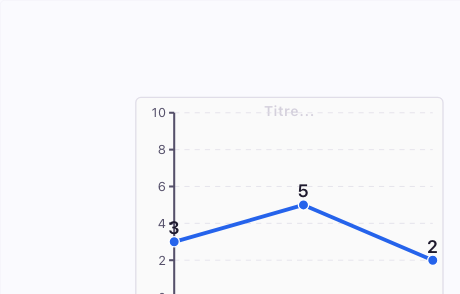
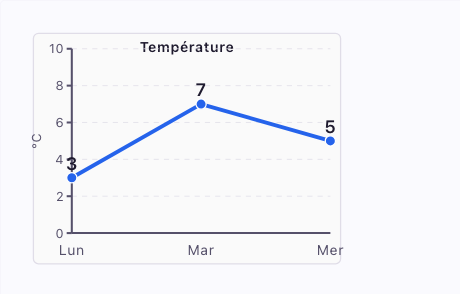
fix: images exemples flèche et diagramme ligne corrigées
- exemple-fleche: boîtes Léo→Mia avec flèche "donne 5" (via fixture)
- exemple-diagramme-ligne: Température Lun/Mar/Mer avec valeurs (via fixture)
- Texte HTML ajusté: description enrichie Calcul colonnes/division, exemples matchent images
- Fixture diagramme ligne simplifiée à 3 points (évite timeout)

diff --git a/public/docs/catalogue-pieces.html b/public/docs/catalogue-pieces.html
@@ -440,8 +440,8 @@
     </div>
     <div class="piece-example"><dl>
       <dt>Exemple</dt>
-      <dd><em>« La température cette semaine. »</em> — Placez un diagramme à ligne, titrez « Température ». Via le menu Points, entrez les jours et les températures. La ligne relie les points et montre la tendance.
-      <img src="images/exemple-diagramme-ligne.png" alt="Diagramme Température avec points reliés"></dd>
+      <dd><em>« Température : lundi 3°, mardi 7°, mercredi 5°. »</em> — Placez un diagramme à ligne, titrez « Température », axe « °C ». Via le menu Points, entrez les jours et les valeurs. La ligne relie les points et montre la tendance.
+      <img src="images/exemple-diagramme-ligne.png" alt="Diagramme Température : Lun 3°, Mar 7°, Mer 5°"></dd>
     </dl></div>
   </div>
 </div>
